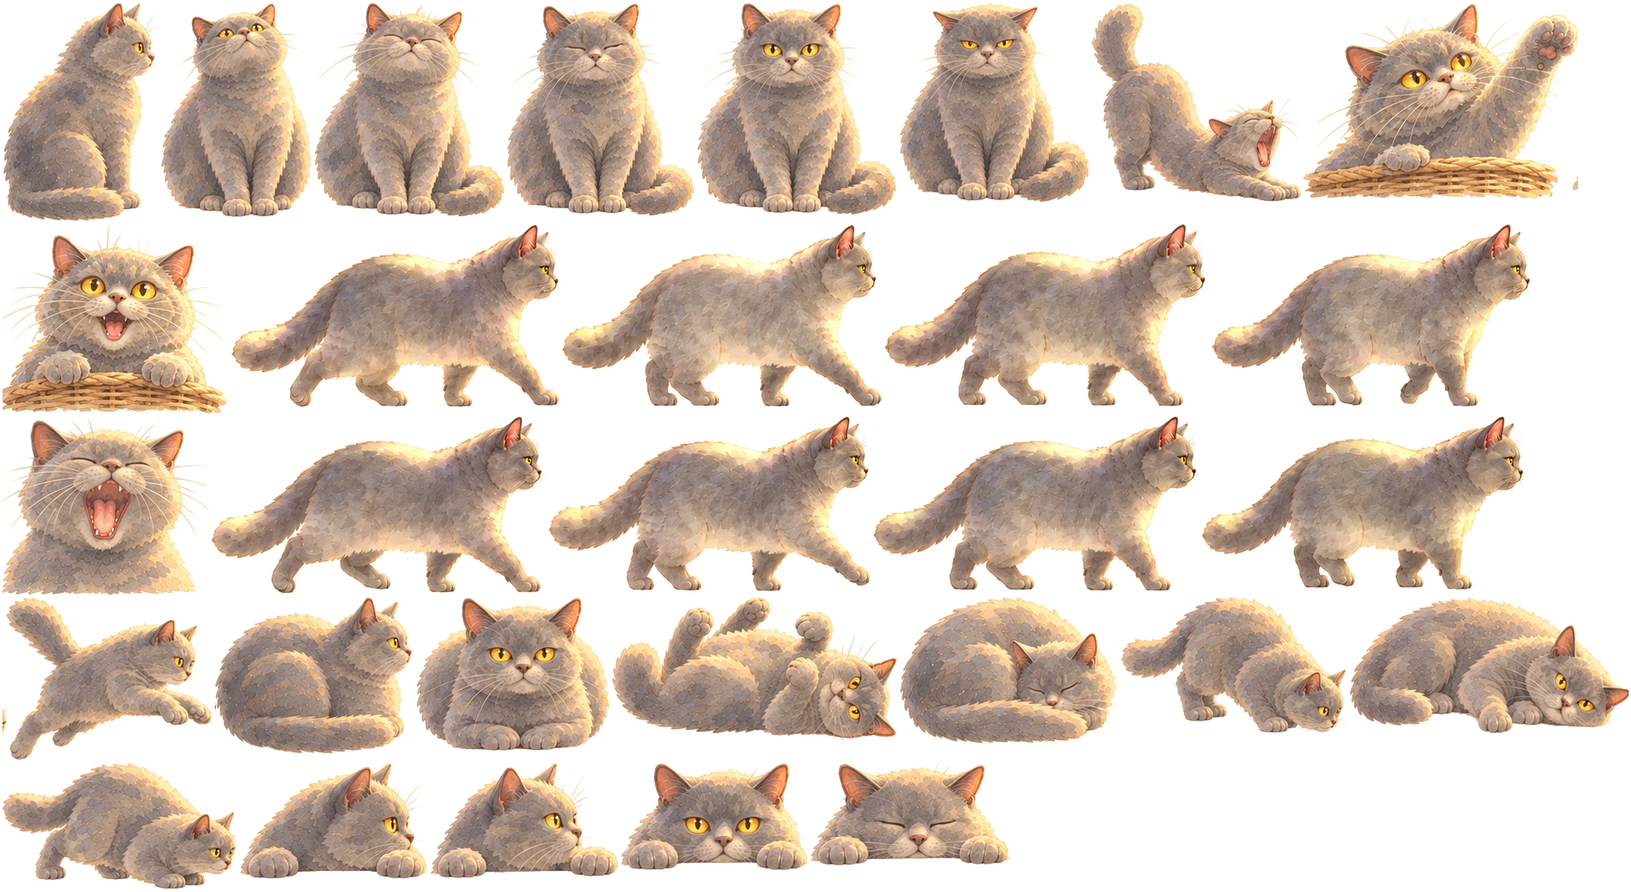
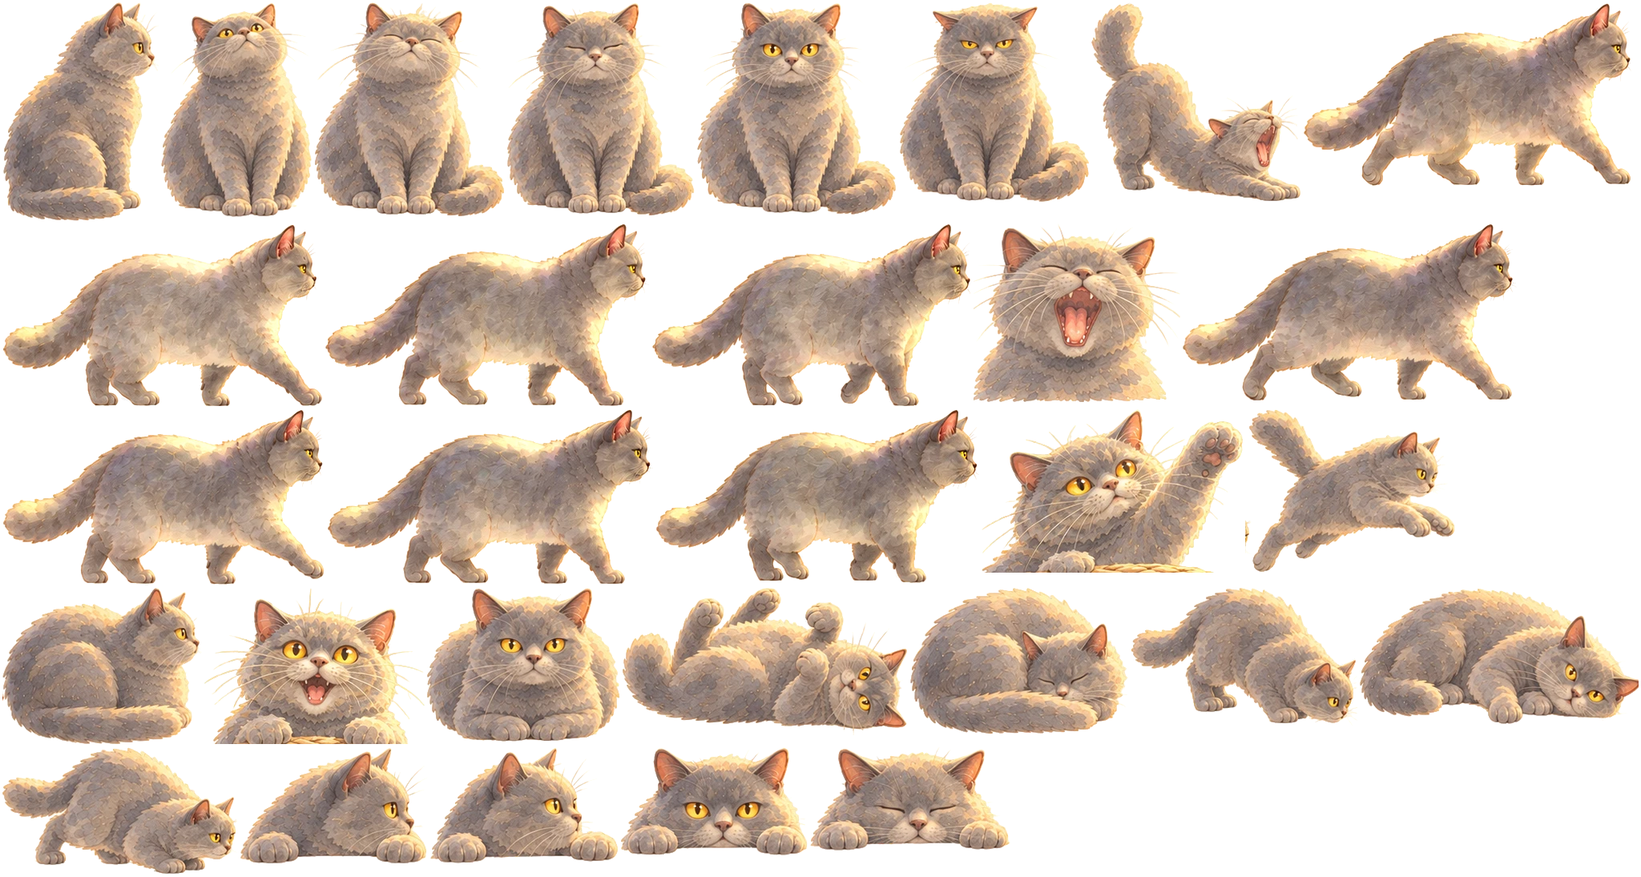
Owner review: clear overlaps, let play bring the garden to life, legible words
- Wild plants keep clear of the taller painted beds and rose bed.
- Erwu's swat and delight are cropped above the rim painted into them,
  so only her own basket's rim shows.
- Planted beds stay in the garden during a run. Growth news floats up
  above the flower, and seeds no longer fly to a bed.
- Rest starts after 4 hours away and settles over 32 more hours (was
  12 and 72). A visit wakes it only half way (REST.visitWake); turns
  bring back the rest.
- A resting garden drains to a muted dusk on both screens. Erwu, the
  flower and what play brings stay in colour above it, and colour
  eases back turn by turn.
- Words over the painted garden sit on small paper labels.

Claude-Session: https://claude.ai/code/session_012nyyi4csaEj4itTXifEHUn

diff --git a/index.html b/index.html
@@ -383,8 +383,13 @@
     background: radial-gradient(closest-side, var(--ground) 55%, color-mix(in srgb, var(--ground) 0%, transparent));
   }
   /* over the painted garden, words carry their own soft paper glow */
-  body.painted #t-status, body.painted #t-note, body.painted #title .tagline {
-    text-shadow: 0 0 4px var(--ground), 0 0 10px var(--ground), 0 0 18px var(--ground);
+  /* over the painted garden, the words sit on small paper labels, like seed-packet tags */
+  body.painted #t-status:not(:empty), body.painted #t-note:not(:empty), body.painted #garden-invitation:not(:empty), body.painted #hint:not(:empty), body.painted #title .tagline {
+    width: fit-content; max-width: 100%; margin-inline: auto; box-sizing: border-box;
+    padding: 5px 14px; border-radius: 14px;
+    background: color-mix(in srgb, var(--ground) 90%, transparent);
+    box-shadow: 0 1px 0 rgba(110,78,51,0.16), 0 2px 10px rgba(80,70,40,0.12);
+    color: var(--ink);
   }
   /* over the painted garden, only a light veil right behind the words */
   body.painted #title .t-top::before, body.painted #title .t-bottom::before {
@@ -1028,14 +1033,16 @@
   const plantXY = (p) => presentation === 'garden' && gardenScene ? BloomGardenLayout.projectPlant(p, gardenScene) : plantWorld(p);
   const sceneOrigin = () => presentation === 'garden' && gardenScene ? { x: gardenScene.cx, y: gardenScene.cy } : { x: CX, y: CY };
 
-  let greetPending = false, runChangedBeds = [];
+  let greetPending = false, runChangedBeds = [], restFloor = 0, shownRest = null;
   function welcomeBack() {
     const away = Math.max(0, Date.now() - garden.lastSeen);
     BloomGarden.arrive(garden);
+    // a visit wakes the garden only part way; the rest comes back as you play
+    restFloor = garden.rest * (1 - BloomGarden.REST.visitWake);
     // after real time away, Erwu comes to say hello when you next see the garden
     if (garden.rest > 0.2 || away > 3 * 3.6e6) greetPending = true;
     gardenDirty = true;
-    gardenNote = garden.rest > 0.05 ? 'The garden is resting. Settle in with Erwu.'
+    gardenNote = garden.rest > 0.05 ? 'The garden is resting. A few turns will wake it.'
       : away > 3.6e6 && garden.plants.length ? 'Your garden is here, just as you left it.' : '';
     el.tNote.textContent = gardenMessage();
   }
@@ -1054,29 +1061,11 @@
     const found = BloomBeds.noteFlowering(garden, BloomGarden.allocateId);
     if (found.length) saveGarden();
     if (presentation !== 'run' || change.after === 'planted') return;
-    const spot = runBedSpots().find((q) => q.item.id === change.bed.id);
     const text = `${bedName(change.bed).replace(/^the /, 'The ')} ${stageWords[change.after]}`;
-    if (spot) {
-      for (let i = 0; i < 5; i++) glint(spot.x + (Math.random() - 0.5) * 40 * spot.scale, spot.y - Math.random() * 26 * spot.scale, 1.1);
-      addFloat(spot.x, spot.y - 36 * spot.scale, change.after === 'established' ? 'Established' : change.after === 'flowering' ? 'Flowering' : 'Growing', 'moss', 0.85);
-    }
+    // the bed itself waits in the garden; its news floats up above the flower
+    addFloat(0, -R - 18, `${bedName(change.bed).replace(/^the /, '')} · ${change.after === 'established' ? 'established' : change.after === 'flowering' ? 'flowering' : 'growing'}`, 'moss', 0.8);
     el.bedLive.textContent = text + '.';
   }
-  // Where the planted beds sit around the flower during play (arena coordinates).
-  function bedReserve() {
-    const scale = Math.min(0.78, R / 190);
-    return [0, 1, 2].map((i) => ({ x: (i - 1) * R * 0.52, y: -R - 20 * scale - (i === 1 ? 8 : 0), scale }));
-  }
-  // Now and then a bloom's seed flies to the bed you're growing instead of the border.
-  function seedToBed(from) {
-    const bed = BloomBeds.focusBed(garden);
-    const spot = bed && runBedSpots().find((q) => q.item.id === bed.id);
-    if (!spot || reduced || flights.length > 12) return false;
-    const to = { x: spot.x + (Math.random() - 0.5) * 30 * spot.scale, y: spot.y - 4 * spot.scale };
-    flights.push({ x0: from.x, y0: from.y, to, t: 0, dur: 0.45 + Math.hypot(to.x - from.x, to.y - from.y) / (R * 2.4), col: from.col || hexRgb(C.honey), trail: [] });
-    return true;
-  }
-
   // Find open ground outside the flower, preferring spots near the rim and near `pref` (an angle).
   function findSpot(pref, dmin, dmax) {
     const u = R * 0.065, gap = R * 0.08;
@@ -1088,7 +1077,6 @@
       if (sx < u || sx > W - u || sy > gBottom || sy - u * 3.2 < gTop) continue;
       if (Math.hypot(x, y - u * 2.4) < R * 1.05) continue;
       if (garden.plants.some((p) => { const q = plantWorld(p); return Math.hypot(q.x - x, q.y - y) < gap; })) continue;
-      if (bedReserve().some((q) => Math.abs(q.x - x) < 36 * q.scale && y < q.y + 10 * q.scale && y > q.y - 30 * q.scale)) continue;
       return { a, d };
     }
     return null;
@@ -1136,7 +1124,6 @@
       if (shot) shot.bedGrowth = (shot.bedGrowth || 0) + amount;
       bedGrew(BloomBeds.grow(garden, amount, 'bloom'));
     }
-    if (shot && Math.random() < 0.3 && seedToBed(from)) return;
     if (shot && shot.flowers < 8 && plant(pick(FLOWER_KINDS), a, 0.3, 1.06, 2.6, from)) shot.flowers++;
     else nurture(a, 0.06);
   }
@@ -1197,7 +1184,8 @@
     const r = plateRect();
     if (!r || !sc) return undefined;
     const at = (q, wf, hf) => ({ x: r.x + q.x * r.w - sc.cx, y: r.y + q.y * r.h - sc.cy, width: r.w * wf, height: r.h * hf });
-    return { fountain: at(ART.lawn.fountain, ART.lawn.fountain.width * 0.8, 0.21), deadwood: at(ART.lawn.log, ART.lawn.log.width, 0.1) };
+    return { fountain: at(ART.lawn.fountain, ART.lawn.fountain.width * 0.8, 0.21), deadwood: at(ART.lawn.log, ART.lawn.log.width, 0.1),
+      clear: { side: 14, up: 34, roseUp: sc.nest * 1.4 } };
   }
   // Draws a painted piece `width` wide with its ground anchor at (x, y). Returns false if it can't.
   function paintPiece(g, key, name, x, y, width, flip = false, alpha = 1) {
@@ -1307,7 +1295,7 @@
   }
   // Erwu in her basket during a run and on the end card: the painted poses that fit her moods.
   // Her lower half is always inside the basket, so the chest-high poses work here.
-  const IN_BASKET = { swat: 0.5, delighted: 0.5, peek: 0.42, 'peek-glance': 0.42, 'peek-turn': 0.42, 'peek-sleepy': 0.42, yawn: 0.5, curl: 0.34, 'sit-content': 0.8, 'sit-grumpy': 0.8 };
+  const IN_BASKET = { swat: 0.4, delighted: 0.4, peek: 0.42, 'peek-glance': 0.42, 'peek-turn': 0.42, 'peek-sleepy': 0.42, yawn: 0.5, curl: 0.34, 'sit-content': 0.8, 'sit-grumpy': 0.8 };
   // widths of the chest-high poses from the play sheet, relative to her peek
   const BASKET_WIDTH = { swat: 1.5, delighted: 1.12 };
   function basketPose(o) {
@@ -1737,7 +1725,7 @@
     } else if (presentation === 'run') {
       // Only planted beds come along during play, small and just above the flower,
       // so they never crowd the aiming area. Props remain in the garden.
-      for (const q of runBedSpots()) drawGardenObject(g, q.item, q, false, q.scale);
+      // (planted beds stay in the garden; a run shows only the flower and what play grows)
     }
   }
   // ----- The garden itself, after the real one: a rose bed with its arch in the middle,
@@ -2105,17 +2093,6 @@
       }
     }
     ctx.restore();
-  }
-  // Where planted beds sit in the run view, in arena coordinates; empty when there is no room.
-  function runBedSpots() {
-    const out = [], spots = bedReserve();
-    for (const [i, anchor] of BloomGardenLayout.anchors.filter(a => a.type === 'patch').entries()) {
-      const item = BloomGardenLayout.at(garden, anchor.id);
-      const q = { ...spots[i], item }, scale = q.scale;
-      if (!item || !item.flower || CY + q.y - 34 * scale < gTop + 4 || Math.abs(q.x) + 32 * scale > W / 2 - 8) continue;
-      out.push(q);
-    }
-    return out;
   }
   function paintGarden() {
     swaying = [];
@@ -3186,7 +3163,7 @@
     // Visiting is enough to wake the garden. Hidden tabs never perform catch-up care.
     if (!document.hidden) {
       garden.lastSeen = Date.now();
-      if (BloomGarden.wake(garden, dt)) gardenDirty = true;
+      if (BloomGarden.wake(garden, dt, restFloor)) gardenDirty = true;
       if (garden.rest < 0.05 && gardenNote.startsWith('The garden is resting')) {
         gardenNote = ''; el.tNote.textContent = gardenMessage(); refreshInspection();
         if (state === 'ready') updateHud();
@@ -4702,7 +4679,9 @@
     }
   }
 
+  let lastDraw = 0;
   function draw(now) {
+    const dtFrame = lastDraw ? Math.min(0.1, (now - lastDraw) / 1000) : 0; lastDraw = now;
     if (!bgCache) { readTheme(); bgCache = paintBackground(); }
     ctx.setTransform(1, 0, 0, 1, 0, 0);
     ctx.drawImage(bgCache, 0, 0);
@@ -4739,11 +4718,19 @@
     if (gardenDirty && (!gardenCache || now - gardenPainted > 180)) paintGarden();
     if (gardenCache) { ctx.setTransform(1, 0, 0, 1, 0, 0); ctx.drawImage(gardenCache, 0, 0); drawSwaying(now); ctx.setTransform(DPR, 0, 0, DPR, 0, 0); }
     if (presentation === 'garden') { drawFountainFx(now); drawGardenLife(now); }
-    if (presentation === 'garden' && garden.rest > 0.02) {
-      // a resting garden sits in soft, cool evening light
-      const k = garden.rest, gr = ctx.createLinearGradient(0, 0, 0, H);
-      gr.addColorStop(0, `rgba(150,160,205,${0.2 * k})`); gr.addColorStop(0.55, `rgba(170,176,214,${0.1 * k})`); gr.addColorStop(1, `rgba(150,160,205,${0.16 * k})`);
-      ctx.fillStyle = gr; ctx.fillRect(0, 0, W, H);
+    // A resting garden loses its colour: the flowers fade to a muted, dusky hush. Erwu, the
+    // flower you play on and everything play brings stay in full colour above it, and the
+    // colour eases back turn by turn as the garden wakes, so play visibly brings it to life.
+    shownRest = shownRest == null || reduced ? garden.rest : shownRest + (garden.rest - shownRest) * Math.min(1, dtFrame * 1.6);
+    if (shownRest > 0.02) {
+      const k = Math.min(1, shownRest);
+      ctx.save(); ctx.setTransform(1, 0, 0, 1, 0, 0);
+      ctx.globalCompositeOperation = 'saturation'; ctx.fillStyle = `rgba(128,128,128,${0.78 * k})`; ctx.fillRect(0, 0, canvas.width, canvas.height);
+      ctx.globalCompositeOperation = 'multiply';
+      const gr = ctx.createLinearGradient(0, 0, 0, canvas.height);
+      gr.addColorStop(0, `rgba(196,190,214,${0.5 * k})`); gr.addColorStop(1, `rgba(214,200,186,${0.45 * k})`);
+      ctx.fillStyle = gr; ctx.fillRect(0, 0, canvas.width, canvas.height);
+      ctx.restore();
     }
 
     const origin = sceneOrigin();

diff --git a/art-manifest.js b/art-manifest.js
@@ -1,5 +1,5 @@
 /* Generated by tools/build-art.cjs from the painted source sheets in assets/. Do not edit by hand. */
 (function (root) { 'use strict';
-  const ART = {"note":"frame: [x, y, w, h, anchorX, anchorY, sourceX, sourceY, bedRimWidth?]; anchors are where a piece meets the ground","erwu":{"src":"assets/erwu.webp","size":[2035,1113],"frames":{"sit-front":[870,3,249,265,125,265,39,45],"sit-drowsy":[633,3,234,266,117,266,321,44],"sit-content":[392,3,238,267,119,267,579,44],"curl":[1122,745,273,183,137,183,834,129],"sniff":[1398,745,283,172,142,172,7,380],"stalk":[3,951,294,159,147,159,292,393],"pounce":[3,745,262,203,131,203,578,344],"stretch":[1362,3,261,249,131,249,852,321],"loaf":[520,745,241,192,121,192,27,638],"sit-side":[3,3,195,273,98,273,299,568],"belly-up":[764,745,355,184,178,184,495,662],"yawn":[3,519,258,223,129,223,851,618],"peek":[775,951,233,136,117,136,25,902],"peek-glance":[300,951,234,147,117,147,296,891],"peek-turn":[537,951,235,146,118,146,568,893],"peek-sleepy":[1011,951,250,130,125,130,842,910],"look-up":[201,3,188,269,94,269,632,1055],"sit-grumpy":[1122,3,237,250,119,250,868,1076],"lie-side":[1684,745,348,171,174,171,11,1137],"loaf-side":[268,745,249,196,125,196,360,1119],"walk-0":[701,279,400,229,200,229,22,158],"walk-1":[1104,279,404,229,204,229,451,159],"walk-2":[1511,279,399,229,199,229,890,159],"walk-3":[288,279,410,230,210,230,1323,158],"walk-4":[684,519,403,220,203,220,24,503],"walk-5":[1090,519,406,220,206,220,452,504],"walk-6":[1499,519,404,218,204,218,888,508],"walk-7":[264,519,417,222,217,222,1320,504],"swat":[1626,3,343,246,172,246,758,820],"delighted":[3,279,282,237,141,237,1102,829]}},"garden":{"src":"assets/garden.webp","size":[2032,1313],"frames":{"rose-bed":[3,3,442,403,221,403,17,17],"fountain":[448,3,288,386,144,386,481,29],"log":[739,3,447,337,224,337,792,99],"cushion":[1686,711,343,205,172,205,34,455],"stone":[365,1153,292,148,146,148,470,492],"step-0":[1566,1153,186,81,93,81,903,443],"step-1":[1378,1153,185,83,93,83,1043,488],"step-2":[979,1153,193,101,97,101,819,520],"step-3":[1175,1153,200,95,100,95,991,569],"bed-empty":[1034,711,384,233,192,233,21,685,385],"bed-seedlings":[658,711,373,236,187,236,439,687,385],"bed-young":[3,711,391,251,196,251,841,675,385],"bed-full":[1189,3,401,305,201,305,19,919,385],"grass":[1593,3,401,302,201,302,426,926],"meadow":[3,409,410,299,205,299,828,927],"bloom-cosmos":[1731,409,258,253,129,253,11,153,259],"bloom-catnip":[1466,409,262,257,131,257,370,153,259],"bloom-sunflower":[416,409,261,279,131,279,731,122,259],"bloom-moonflower":[1203,409,260,259,130,259,1094,149,259],"bloom-dandelion":[397,711,258,245,129,245,11,600,259],"bloom-bleeding-heart":[680,409,260,266,130,266,369,570,259],"bloom-strawberry":[1421,711,262,227,131,227,729,624,259],"bloom-lavender":[943,409,257,260,129,260,1094,580,259],"clump-daisy":[1615,965,163,157,82,157,29,50],"clump-forget":[1452,965,160,161,80,161,351,42],"clump-cosmos":[1140,965,151,163,76,163,660,38],"clump-lavender":[158,965,154,175,77,175,962,20],"clump-clover":[1781,965,157,157,79,157,32,358],"clump-buttercup":[473,965,155,170,78,170,350,342],"clump-foxglove":[3,965,152,185,76,185,663,319],"clump-bluebell":[631,965,158,170,79,170,964,343],"clump-rose":[792,965,169,168,85,168,26,640],"clump-fern":[180,1153,182,156,91,156,327,655],"clump-grass":[3,1153,174,157,87,157,648,651],"clump-mushroom":[832,1153,144,126,72,126,978,711],"clump-wild":[964,965,173,165,87,165,25,946],"clump-sweetpea":[315,965,155,172,78,172,356,934],"clump-cornflower":[1294,965,155,163,78,163,661,948],"clump-leafy":[660,1153,169,141,84,141,955,980]},"basket":{"cx":255,"cy":237,"rx":85,"ry":40,"outerRx":93,"outerRy":49,"bottom":318}},"play":{"src":"assets/play.webp","size":[2036,473],"frames":{"petal-white":[1382,257,214,134,107,134,48,78],"petal-pink":[1171,257,208,143,104,143,330,69],"centre":[1014,257,154,145,77,145,626,76],"pollen":[1599,257,104,109,52,109,926,100],"sun":[807,257,204,201,102,201,1146,42],"bud-tulip":[1844,3,189,213,95,213,64,292],"bud-rose":[211,257,201,212,101,212,326,295],"bud-peony":[3,257,205,213,103,213,591,293],"bud-poppy":[415,257,196,211,98,211,876,294],"bud-bell":[614,257,190,206,95,206,1143,301],"open-tulip":[237,3,230,247,115,247,36,537],"open-rose":[1482,3,242,231,121,231,295,548],"open-peony":[980,3,246,238,123,238,570,544],"open-poppy":[1229,3,250,236,125,236,844,549],"open-bell":[3,3,231,251,116,251,1134,534],"basket":[470,3,309,245,155,245,22,821],"seed-pod":[1727,3,114,217,57,217,390,838],"dandelion":[782,3,195,240,98,240,558,819]},"basket":{"cx":178,"cy":925,"rx":125,"ry":50,"outerRx":153,"outerRy":80,"bottom":1062}},"lawn":{"src":"assets/garden-plate.webp","fountain":{"x":0.205,"y":0.268,"width":0.27},"log":{"x":0.835,"y":0.262,"width":0.29}}};
+  const ART = {"note":"frame: [x, y, w, h, anchorX, anchorY, sourceX, sourceY, bedRimWidth?]; anchors are where a piece meets the ground","erwu":{"src":"assets/erwu.webp","size":[2048,1095],"frames":{"sit-front":[870,3,249,265,125,265,39,45],"sit-drowsy":[633,3,234,266,117,266,321,44],"sit-content":[392,3,238,267,119,267,579,44],"curl":[1135,734,273,183,137,183,834,129],"sniff":[1411,734,283,172,142,172,7,380],"stalk":[3,933,294,159,147,159,292,393],"pounce":[1554,511,262,203,131,203,578,344],"stretch":[1362,3,261,249,131,249,852,321],"loaf":[533,734,241,192,121,192,27,638],"sit-side":[3,3,195,273,98,273,299,568],"belly-up":[777,734,355,184,178,184,495,662],"yawn":[1215,279,258,223,129,223,851,618],"peek":[775,933,233,136,117,136,25,902],"peek-glance":[300,933,234,147,117,147,296,891],"peek-turn":[537,933,235,146,118,146,568,893],"peek-sleepy":[1011,933,250,130,125,130,842,910],"look-up":[201,3,188,269,94,269,632,1055],"sit-grumpy":[1122,3,237,250,119,250,868,1076],"lie-side":[1697,734,348,171,174,171,11,1137],"loaf-side":[3,734,249,196,125,196,360,1119],"walk-0":[3,279,400,229,200,229,22,158],"walk-1":[406,279,404,229,204,229,451,159],"walk-2":[813,279,399,229,199,229,890,159],"walk-3":[1626,3,410,230,210,230,1323,158],"walk-4":[3,511,403,220,203,220,24,503],"walk-5":[409,511,406,220,206,220,452,504],"walk-6":[818,511,404,218,204,218,888,508],"walk-7":[1476,279,417,222,217,222,1320,504],"swat":[1225,511,326,204,163,204,775,820],"delighted":[255,734,275,195,138,195,1102,829]}},"garden":{"src":"assets/garden.webp","size":[2032,1313],"frames":{"rose-bed":[3,3,442,403,221,403,17,17],"fountain":[448,3,288,386,144,386,481,29],"log":[739,3,447,337,224,337,792,99],"cushion":[1686,711,343,205,172,205,34,455],"stone":[365,1153,292,148,146,148,470,492],"step-0":[1566,1153,186,81,93,81,903,443],"step-1":[1378,1153,185,83,93,83,1043,488],"step-2":[979,1153,193,101,97,101,819,520],"step-3":[1175,1153,200,95,100,95,991,569],"bed-empty":[1034,711,384,233,192,233,21,685,385],"bed-seedlings":[658,711,373,236,187,236,439,687,385],"bed-young":[3,711,391,251,196,251,841,675,385],"bed-full":[1189,3,401,305,201,305,19,919,385],"grass":[1593,3,401,302,201,302,426,926],"meadow":[3,409,410,299,205,299,828,927],"bloom-cosmos":[1731,409,258,253,129,253,11,153,259],"bloom-catnip":[1466,409,262,257,131,257,370,153,259],"bloom-sunflower":[416,409,261,279,131,279,731,122,259],"bloom-moonflower":[1203,409,260,259,130,259,1094,149,259],"bloom-dandelion":[397,711,258,245,129,245,11,600,259],"bloom-bleeding-heart":[680,409,260,266,130,266,369,570,259],"bloom-strawberry":[1421,711,262,227,131,227,729,624,259],"bloom-lavender":[943,409,257,260,129,260,1094,580,259],"clump-daisy":[1615,965,163,157,82,157,29,50],"clump-forget":[1452,965,160,161,80,161,351,42],"clump-cosmos":[1140,965,151,163,76,163,660,38],"clump-lavender":[158,965,154,175,77,175,962,20],"clump-clover":[1781,965,157,157,79,157,32,358],"clump-buttercup":[473,965,155,170,78,170,350,342],"clump-foxglove":[3,965,152,185,76,185,663,319],"clump-bluebell":[631,965,158,170,79,170,964,343],"clump-rose":[792,965,169,168,85,168,26,640],"clump-fern":[180,1153,182,156,91,156,327,655],"clump-grass":[3,1153,174,157,87,157,648,651],"clump-mushroom":[832,1153,144,126,72,126,978,711],"clump-wild":[964,965,173,165,87,165,25,946],"clump-sweetpea":[315,965,155,172,78,172,356,934],"clump-cornflower":[1294,965,155,163,78,163,661,948],"clump-leafy":[660,1153,169,141,84,141,955,980]},"basket":{"cx":255,"cy":237,"rx":85,"ry":40,"outerRx":93,"outerRy":49,"bottom":318}},"play":{"src":"assets/play.webp","size":[2036,473],"frames":{"petal-white":[1382,257,214,134,107,134,48,78],"petal-pink":[1171,257,208,143,104,143,330,69],"centre":[1014,257,154,145,77,145,626,76],"pollen":[1599,257,104,109,52,109,926,100],"sun":[807,257,204,201,102,201,1146,42],"bud-tulip":[1844,3,189,213,95,213,64,292],"bud-rose":[211,257,201,212,101,212,326,295],"bud-peony":[3,257,205,213,103,213,591,293],"bud-poppy":[415,257,196,211,98,211,876,294],"bud-bell":[614,257,190,206,95,206,1143,301],"open-tulip":[237,3,230,247,115,247,36,537],"open-rose":[1482,3,242,231,121,231,295,548],"open-peony":[980,3,246,238,123,238,570,544],"open-poppy":[1229,3,250,236,125,236,844,549],"open-bell":[3,3,231,251,116,251,1134,534],"basket":[470,3,309,245,155,245,22,821],"seed-pod":[1727,3,114,217,57,217,390,838],"dandelion":[782,3,195,240,98,240,558,819]},"basket":{"cx":178,"cy":925,"rx":125,"ry":50,"outerRx":153,"outerRy":80,"bottom":1062}},"lawn":{"src":"assets/garden-plate.webp","fountain":{"x":0.205,"y":0.268,"width":0.27},"log":{"x":0.835,"y":0.262,"width":0.29}}};
   if (typeof module === 'object' && module.exports) module.exports = ART; else root.BloomArt = ART;
 })(typeof globalThis === 'object' ? globalThis : this);

diff --git a/garden-state.js b/garden-state.js
@@ -5,7 +5,10 @@
 })(typeof globalThis === 'object' ? globalThis : this, function (Layout, Beds) {
   'use strict';
   const KEY = 'bloom.garden2', BACKUP = 'bloom.garden2.backup', LEGACY = 'bloom.garden1';
-  const REST = Object.freeze({ graceHours: 12, settleHours: 72, wakeSeconds: 90, turnRecovery: 0.18 });
+  // Rest arrives after a few hours away and deepens over a day and a half. Simply visiting
+  // wakes the garden only part way (`visitWake`); playing turns brings the rest of it back,
+  // so it is play that brings the garden to life (owner review, 2026-09-28).
+  const REST = Object.freeze({ graceHours: 4, settleHours: 32, wakeSeconds: 90, visitWake: 0.5, turnRecovery: 0.18 });
   const VERSION = 3;
   const KINDS = new Set(['grass', 'clover', 'fern', 'mushroom', 'daisy', 'cosmos', 'lavender', 'forget', 'buttercup']);
   const domains = ['plant', 'patch', 'object', 'discovery', 'seed'];
@@ -115,10 +118,12 @@
     g.lastSeen = now;
     return g.rest;
   }
-  function wake(g, seconds) {
+  // Visiting wakes the garden gradually, but never below `floor` (the caller passes the part
+  // of the rest a visit can't lift: see REST.visitWake). Turns lift the rest (`tend`).
+  function wake(g, seconds, floor = 0) {
     if (!finite(seconds) || seconds <= 0) return false;
     const before = g.rest;
-    g.rest = clamp(g.rest - Math.min(seconds, 1) / REST.wakeSeconds);
+    g.rest = clamp(Math.max(Math.min(g.rest, floor), g.rest - Math.min(seconds, 1) / REST.wakeSeconds));
     return before !== g.rest;
   }
   function tend(g, now = Date.now()) {

diff --git a/garden-layout.js b/garden-layout.js
@@ -142,11 +142,14 @@
     const ox = Math.max(20, scene.width / 2 - 14), oy = Math.max(20, scene.height / 2 - 16);
     const ix = Math.min(ox - 8, r.rx + 16), iy = Math.min(oy - 8, r.ry + 16);
     const t0 = Math.max(0, Math.min(1, (plant.d - 1.04) / 1.56));
+    // painted pieces stand taller and wider than their places: `scene.scenery.clear` widens the
+    // room kept around beds (side, above) and the rose bed (above), so no plant grows over them
+    const c = (scene.scenery && scene.scenery.clear) || {}, side = c.side || 0, up = c.up || 0, roseUp = c.roseUp || 0;
     const free = (x, y) => {
-      if (slots.some(a => Math.abs(x - a.x) < a.width / 2 + 10 && y > a.y - a.height / 2 - 6 && y - 26 < a.y + a.height / 2 + 6)) return false;
+      if (slots.some(a => Math.abs(x - a.x) < a.width / 2 + 10 + side && y > a.y - a.height / 2 - 6 - up && y - 26 < a.y + a.height / 2 + 6)) return false;
       if (slots.some(a => Math.hypot(x - a.interaction.x, y - 12 - a.interaction.y) < 22)) return false;
       if ([m.fountain, m.deadwood].some(f => Math.abs(x - f.x) < f.width / 2 + 10 && y > f.y - f.height - 6 && y - 22 < f.y + 8)) return false;
-      if (((x - r.x) / (r.rx + 10)) ** 2 + ((y - r.y) / (r.ry + 10)) ** 2 < 1) return false;
+      if (((x - r.x) / (r.rx + 10 + side)) ** 2 + ((y - r.y) / (r.ry + 10 + (y < r.y ? roseUp : 0))) ** 2 < 1) return false;
       if (y > m.path.top - 6 && Math.abs(x) < m.path.width) return false;
       return Math.abs(x) < scene.width / 2 - 8 && y > -scene.height / 2 + 26 && y < scene.height / 2 - 4;
     };

diff --git a/.scratch/art-direction/README.md b/.scratch/art-direction/README.md
@@ -66,3 +66,9 @@ The owner generated all seven sheets from `PROMPTS.md` (the `-v2` files, `garden
 - **Erwu:** the new poses and walk. The walk was generated paler than the poses, so the build matches its colours to theirs.
 
 Still to tune after play on the phone: sizes of pieces against the backdrop, and whether the arena's flat sage disc should become painted too.
+
+## Owner review on phones (2026-09-28)
+
+- **Overlaps:** wild plants now keep clear of the taller painted beds and the rose bed (`scene.scenery.clear`), and her swat and delight are cropped above the rim painted into them, so only her own basket's rim shows.
+- **Play brings life:** planted beds stay in the garden during a run (their news floats up above the flower). Rest now starts after 4 hours away and deepens over about a day and a half (was 12 h and 3 days). A visit only wakes the garden half way; turns bring the rest back. A resting garden drains to a muted, dusky grey, with Erwu, the flower and everything play brings in full colour above it, and colour eases back turn by turn (`rest-awake-vs-resting.webp`, `run-resting-390.webp`).
+- **Legibility:** words over the painted garden sit on small paper labels.
